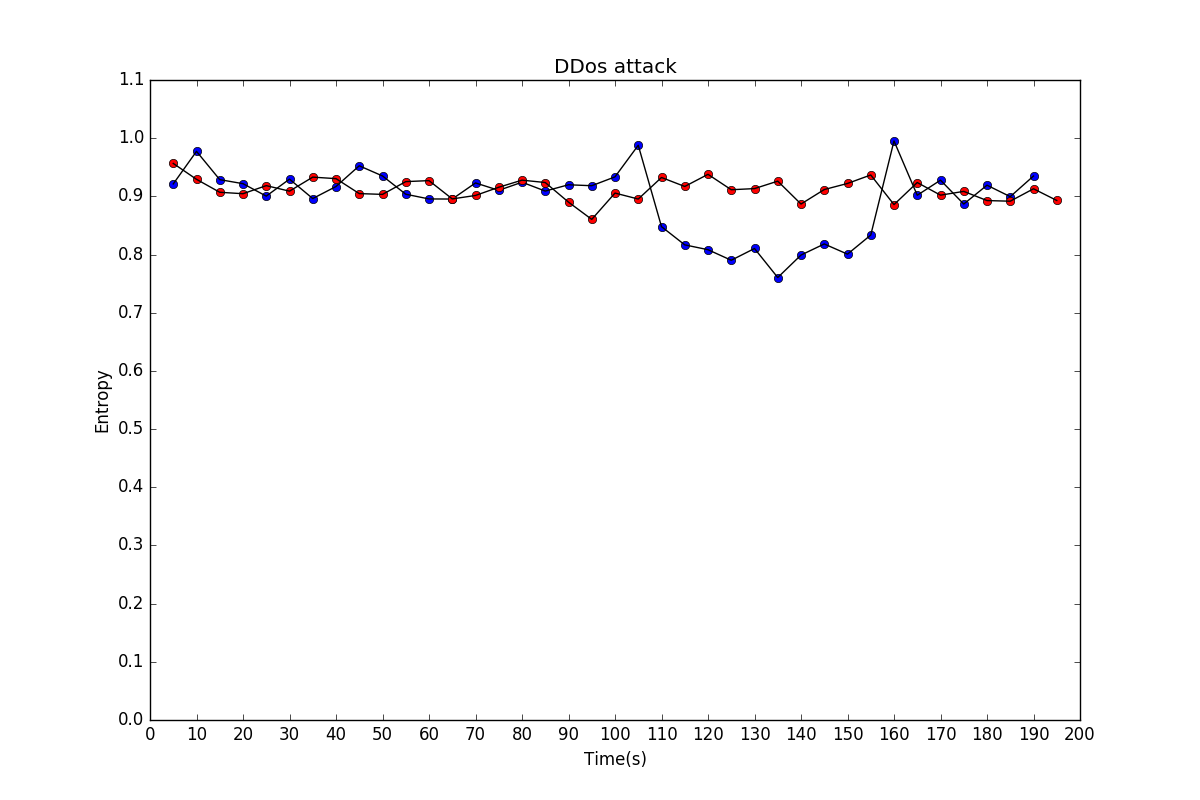
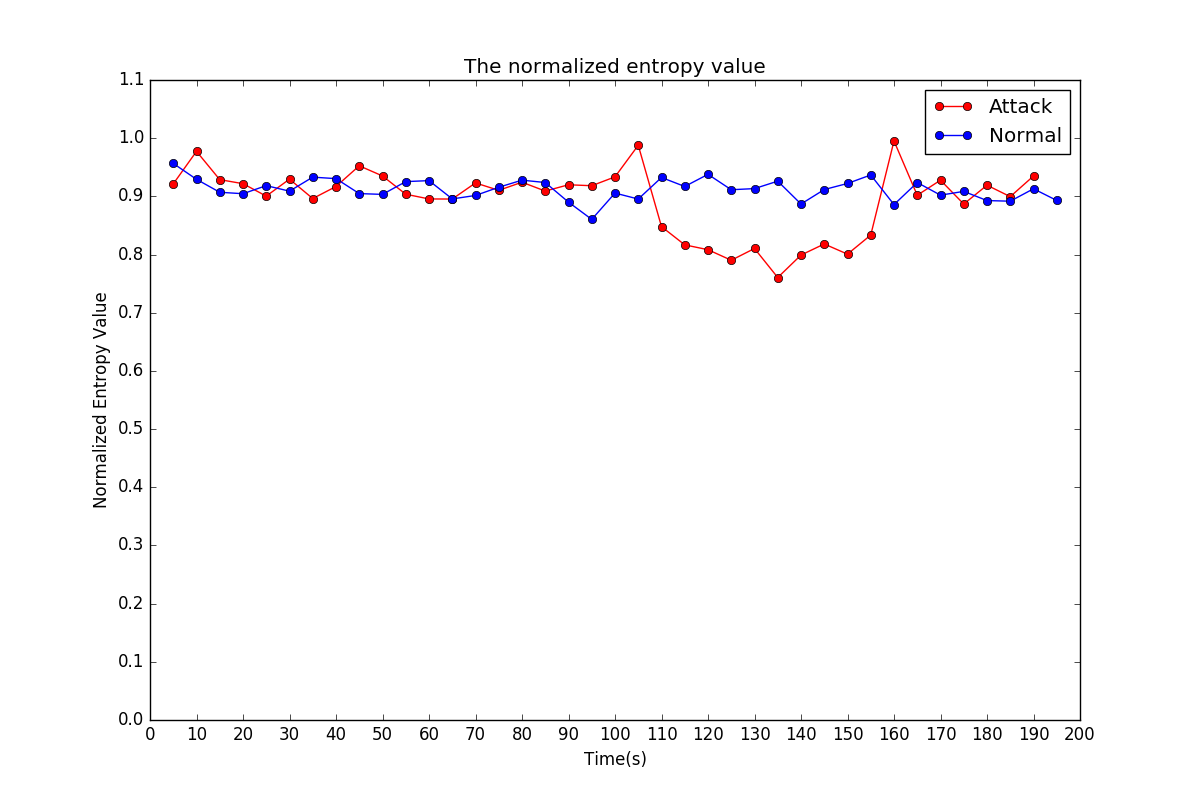
Modify the picture of result

diff --git a/utils/Draw.py b/utils/Draw.py
@@ -19,14 +19,18 @@ for i in range(len(y0)):
 for i in range(len(y1)):
 	x1.append(i*5+5)
 plt.figure(figsize=(12,8)) #创建绘图对象  
-plt.plot(x0,y0,"bo",x0,y0,'k')   #在当前绘图对象绘图（X轴，Y轴，蓝色虚线，线宽度）  
-plt.plot(x1,y1,"ro",x1,y1,'k')
+##plt.plot(x0,y0,"ro-",x0,y0,'k',label='Attack')   #在当前绘图对象绘图（X轴，Y轴，蓝色虚线，线宽度）  
+##plt.plot(x1,y1,"go-",x1,y1,'k',label='Normal')
+plt.plot(x0,y0,"ro-",label='Attack')   #在当前绘图对象绘图（X轴，Y轴，蓝色虚线，线宽度）  
+plt.plot(x1,y1,"bo-",label='Normal')
+##plt.plot(x0,y0,"ro",label='min tax')
 plt.xlabel("Time(s)") #X轴标签  
-plt.ylabel("Entropy")  #Y轴标签  
-plt.title("DDos attack") #图标题 
+plt.ylabel("Normalized Entropy Value")  #Y轴标签  
+plt.title("The normalized entropy value") #图标题 
 my_x_ticks = np.arange(0, 210, 10)
 my_y_ticks = np.arange(0, 1.2, 0.1)
 plt.xticks(my_x_ticks)
 plt.yticks(my_y_ticks)
- 
+
+plt.legend()
 plt.show()  #显示图
